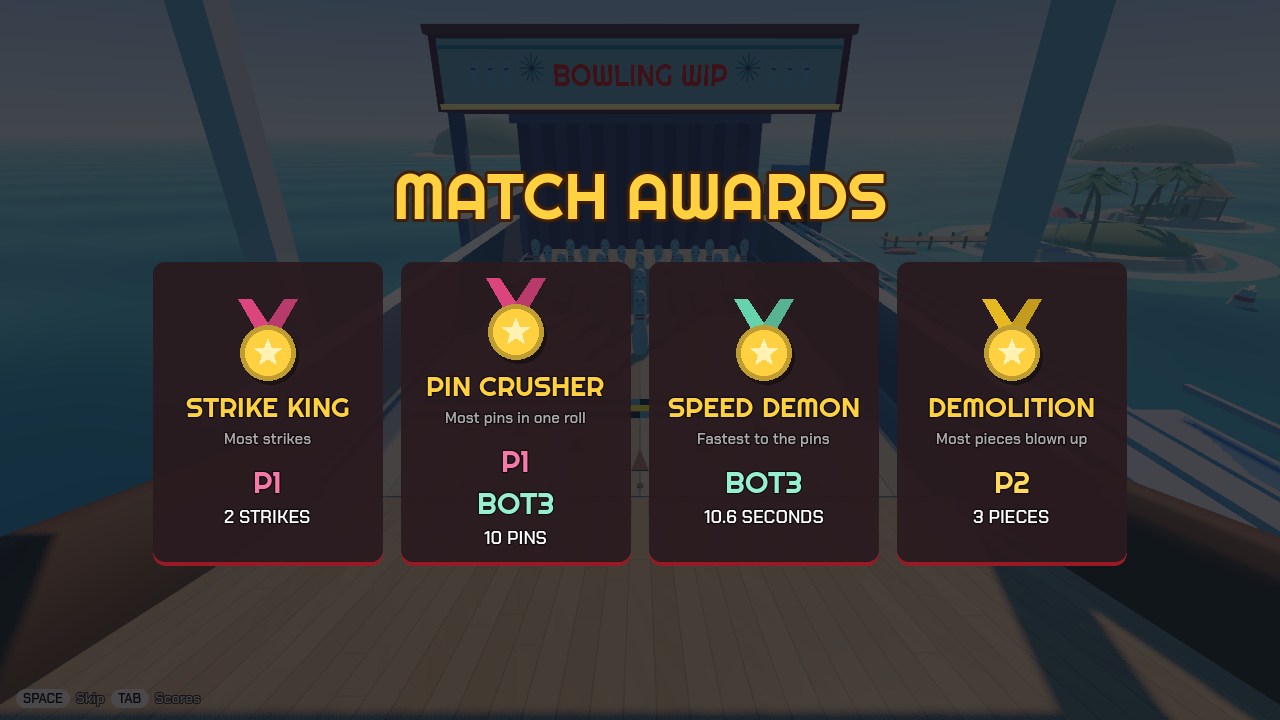
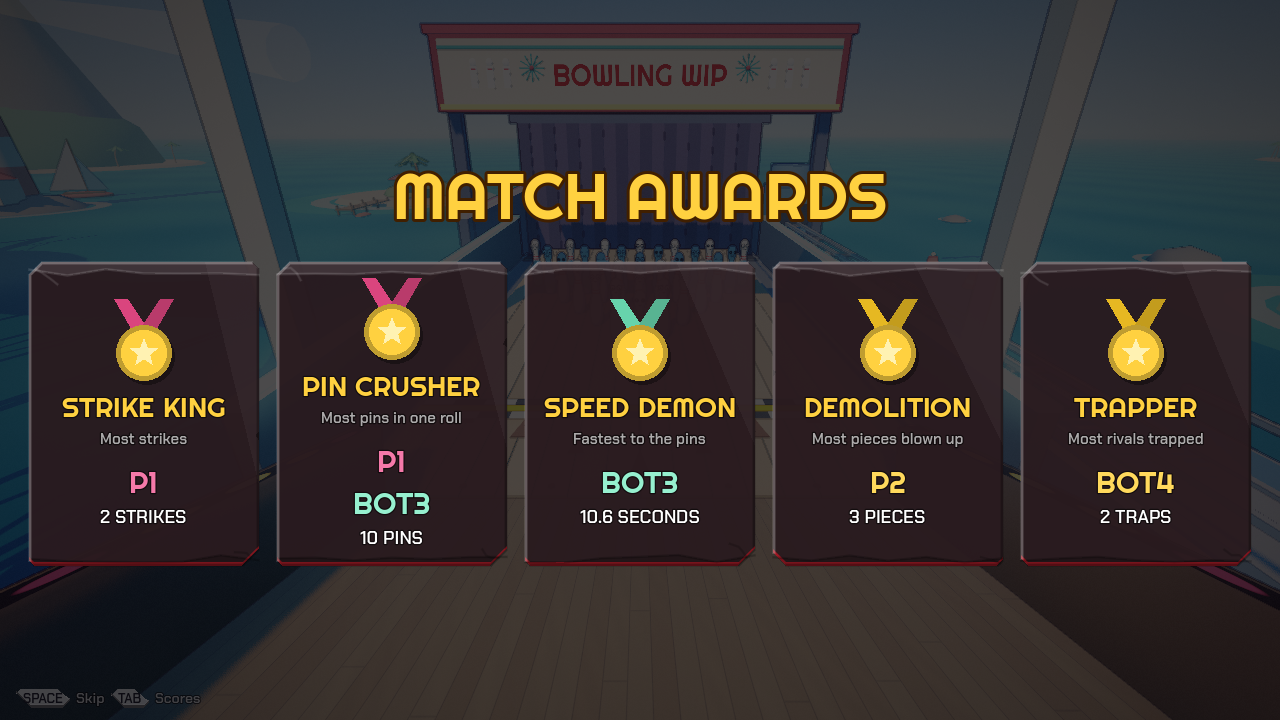
TRAPPED! points: a rival falling off your piece gives you a bonus point
When a rival's marble touches your placed piece and falls off the track
within 3 seconds, TRAPPED BY P2! pops up in your colour and you get +1
point (and coin). New TRAPPER match award, trap +1 on the scoreboard,
works online via the host snapshot. Rules in scripts/traps.gd, tested by
tests/test_traps.gd.

Claude-Session: https://claude.ai/code/session_014TBodWo6EtCv6biSjUHVhv

diff --git a/README.md b/README.md
@@ -114,6 +114,14 @@ Looks are changed between games in the closet on the hub, not at the start of a 
 3. **Roll (45 s max):** marbles drop through the START arch together, crash into each other, and race to one shared rack of 28 pins. The track is a classic maple bowling lane: thin boards, approach dots, a foul line just past the START arch, guide dots and seven aiming arrows. Each pin has its own little face (most look normal, some are sleepy, googly, happy or grumpy); they blink, squeeze their eyes shut when hit, and stay knocked out once they fall. You can lean your marble a little and give it a small **hop** (your place key), but the lane does most of the work. Once a marble crosses the finish line, steering and hops switch off and it just carries its momentum into the pins.
 4. **Score:** pins are credited and a scoreboard shows every player's points for each frame plus the running total. Hold **Tab** to see it at any time.
 
+### TRAPPED! points
+
+![TRAPPED BY P2! as P1's marble falls off P2's pop bumper](docs/trapped.png)
+
+Building a nasty track pays off. If a rival's marble touches **your** piece and then falls off the track within 3 seconds, you trapped it: **TRAPPED BY P2!** pops up in your colour where it fell, your controller gives a little buzz, and you get **+1 point** (which is also +1 coin). The scoreboard line for the frame shows it as `trap +1`, and the player with the most traps in a match gets the **TRAPPER** match award.
+
+A few fair-play rules: your own piece never traps your own marble, the starting pieces in a daily challenge belong to nobody so they don't count, and if a marble bounced off two rivals' pieces on the way out, the **last** one it touched gets the credit. Magnets, fans and boosters count too, not just solid pieces. Online, the host spots the traps and everyone sees the pop-up. The rules are in `scripts/traps.gd` (change `WINDOW` to make the 3 seconds longer or shorter) and the bonus is `TRAP_BONUS` in `scripts/scoring.gd`.
+
 A match is 10 frames. Every match starts on a new random track that winds left and right, banks through its corners and has at least one steep drop, high above the water. Some tracks also have a gap. It starts empty. A marble that flies off the track splashes into the water and is out for that frame.
 
 ### Time trial
@@ -212,7 +220,7 @@ Every other look is won from loot crates at the casino. A crate costs **100 coin
 
 A look you already own pays coins back instead (25 for Common up to 150 for Legendary). The Golden Ball Trophy isn't worn: it stands on your hub. The odds are shown on the crate screen, and live in `scripts/loot_crates.gd` if you want to tune them.
 
-- **Coins:** you get 1 coin per pin you knock down and 1 per bonus point (race, sweep, knock-outs) each frame. At the end of a match you get a prize for where you finished (1st +50, 2nd +30, 3rd +15, 4th +5) and +10 just for finishing. The **COINS EARNED** screen after the podium shows the whole breakdown. The amounts are at the top of `scripts/profiles.gd`. New players start with 150, enough for one crate. The Ball Derby is another way to win (or lose) coins. Coins and looks are saved on this computer for each player seat (P1, P2 and so on). Bots don't earn coins. Online, your coins and looks are the ones on your own computer (P1's).
+- **Coins:** you get 1 coin per pin you knock down and 1 per bonus point (race, sweep, knock-outs, traps) each frame. At the end of a match you get a prize for where you finished (1st +50, 2nd +30, 3rd +15, 4th +5) and +10 just for finishing. The **COINS EARNED** screen after the podium shows the whole breakdown. The amounts are at the top of `scripts/profiles.gd`. New players start with 150, enough for one crate. The Ball Derby is another way to win (or lose) coins. Coins and looks are saved on this computer for each player seat (P1, P2 and so on). Bots don't earn coins. Online, your coins and looks are the ones on your own computer (P1's).
 - Looks and rarities live in `scripts/cosmetics.gd`, hat shapes in `scripts/hats.gd`, and coin amounts in `scripts/profiles.gd`.
 
 ### Match awards
@@ -225,6 +233,7 @@ When the last frame is scored, a **MATCH AWARDS** screen comes up before the pod
 - **PIN CRUSHER**: most pins knocked down in a single roll.
 - **SPEED DEMON**: the fastest marble from the start gate to the pins.
 - **DEMOLITION**: most placed pieces blown up with bombs.
+- **TRAPPER**: most rival marbles trapped off the track (see TRAPPED! points).
 
 An award only shows if someone earned it (no strikes, no STRIKE KING), and players who tie share it. If nobody earned anything, the game goes straight to the podium. The screen moves on by itself after a few seconds, or **press any key or button to skip it**. Hold Tab to peek at the scores. Online, the host works the awards out and everyone sees the same ones.
 
@@ -615,6 +624,7 @@ godot --headless --fixed-fps 120 --script res://tests/sim_time_trial.gd
 godot --headless --fixed-fps 120 --script res://tests/test_ui_feel.gd
 godot --headless --script res://tests/test_photo_mode.gd
 godot --headless --fixed-fps 120 --script res://tests/test_daily_challenge.gd
+godot --headless --fixed-fps 120 --script res://tests/test_traps.gd
 godot --headless --fixed-fps 120 --script res://tests/perf_probe.gd
 GODOT=godot tests/run_net_test.sh
 GODOT=godot tests/run_net_test.sh steam

diff --git a/BACKLOG.md b/BACKLOG.md
@@ -21,40 +21,37 @@ This is the to-do list for the game, **most important at the top**. Every night 
 1. **To do** · **Pick the game's real name** *(suggested by Claude)*
    The title is now **BOWLING WIP** as a stand-in. Pick a name and it changes everywhere at once (`TITLE` in `scripts/main_menu.gd`).
 
-2. **To do** · **TRAPPED! points** *(suggested by Claude)*
-   When a rival's marble touches your piece and falls off the track a moment later, pop "TRAPPED BY P2!" in your colour and give you a bonus coin. A TRAPPER match award for the most. Makes building nasty tracks pay off, the heart of a party building game.
-
-3. **To do** · **Last place picks first** *(suggested by Claude)*
+2. **To do** · **Last place picks first** *(suggested by Claude)*
    Whoever is behind on the scoreboard gets a FIRST PICK badge and a short head start in the draft, so matches stay close and chaotic to the end.
 
-4. **To do** · **Strike replay online** *(suggested by Claude)*
+3. **To do** · **Strike replay online** *(suggested by Claude)*
    Show the slow-motion strike replay in online games too, so everyone watches it together (right now it only plays at one computer).
 
-5. **To do** · **Last two WILD FRAMES rules** *(suggested by Claude)*
+4. **To do** · **Last two WILD FRAMES rules** *(suggested by Claude)*
    GIANT PINS (a rack of huge pins) and FOG (only see the lane near you). The other new rules are done.
 
-6. **To do** · **Online biplane, ghost and run board** *(suggested by Claude)*
+5. **To do** · **Online biplane, ghost and run board** *(suggested by Claude)*
    Show the biplane and the TIME TRIAL ghost to online guests too (right now only the host sees them), and put guests' best runs on the RUN RECORDS board.
 
-7. **To do** · **SKEE-JUMP extras** *(suggested by Claude)*
+6. **To do** · **SKEE-JUMP extras** *(suggested by Claude)*
    An achievement for a perfect 300, SKEE-JUMP for online guests, and a high-score table per player.
 
-8. **To do** · **Corkscrew TA** *(suggested by Claude)*
+7. **To do** · **Corkscrew TA** *(suggested by Claude)*
    A full spiral that drops under itself. Needs the track to allow crossing over itself (supports and a clearance check by height), so it's a bigger job.
 
-9. **To do** · **Ring and loop achievements** *(suggested by Claude)*
+8. **To do** · **Ring and loop achievements** *(suggested by Claude)*
    New achievements: LOOP THE LOOP (go round a Loop-de-Loop), ACE PILOT (a SKY RINGS lap under 30 seconds) and GHOSTBUSTER (beat the ghost by a second).
 
-10. **To do** · **TOO EASY! rule** *(suggested by Claude)*
+9. **To do** · **TOO EASY! rule** *(suggested by Claude)*
    A Settings switch: if every marble gets a strike, nobody gets the strike bonus that frame and a big TOO EASY! stamp shows. Pushes everyone to build a track that's hard but not impossible.
 
-11. **To do** · **Points breakdown bars** *(suggested by Claude)*
+10. **To do** · **Points breakdown bars** *(suggested by Claude)*
    After each frame, each player's score bar grows in coloured chunks (pins, strike bonus, first to the pins, traps), with a small label on each chunk, so it's clear at a glance why someone scored.
 
-12. **To do** · **Chaos crate** *(suggested by Claude)*
+11. **To do** · **Chaos crate** *(suggested by Claude)*
    Now and then a surprise piece nobody picked drops onto the track before the roll (with a warning sign), for extra chaos.
 
-13. **To do** · **Quick reactions** *(suggested by Claude)*
+12. **To do** · **Quick reactions** *(suggested by Claude)*
    Press a button during build or roll to pop a little picture bubble over your marble (laughing, angry, thumbs up). No sound, just pictures, and handy online too.
 
 ## Needs you (Claude can't do these alone)
@@ -66,7 +63,8 @@ This is the to-do list for the game, **most important at the top**. Every night 
 
 ## In review
 
-*(Nothing yet.)*
+- **In review** · **TRAPPED! points** *(suggested by Claude)* (branch `nightly/trapped-points`)
+  When a rival's marble touches your piece and falls off the track within 3 seconds, "TRAPPED BY P2!" pops up in your colour and you get +1 point (and so +1 coin). A TRAPPER match award for the most traps.
 
 ## Done
 
